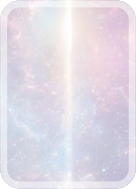
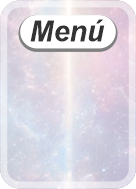
actualice apariencia del menú

Changed region(s): [[0.1176, 0.0794, 0.8824, 0.291]]

diff --git a/src/vista/Boton_Skim.java b/src/vista/Boton_Skim.java
@@ -1,7 +1,27 @@
 package vista;
 
 import javax.swing.*;
+import java.awt.*;
 
-public class Boton_Skim extends JButton {
+public class Boton_Skim extends JLabel {
+
+    public Boton_Skim( String titulo, String ruta_imagen) {
+        super(new ImageIcon(ruta_imagen));
+
+        // Establecemos algunos estilos adicionales para mejorar la apariencia
+        this.setBackground(new Color(51, 153, 255,0));
+        this.setForeground(Color.WHITE);
+        this.setFont(new Font("Arial", Font.BOLD, 14));
+        this.setText(titulo);
+        this.setPreferredSize(new Dimension(100,50));
+    }
+
+    public void set_Icon(String icon) {
+//        icon_direccion = icon;
+    }
+    public void  get_Icon(){
+//        return  icon_direccion;
+    }
 
 }
+

diff --git a/src/vista/GUI.java b/src/vista/GUI.java
@@ -27,6 +27,7 @@ public class GUI extends JFrame {
     private ImageIcon imagen_dado;
     private GridBagConstraints constraints; // Referencias del grid
     private JButton boton_lanzar, boton_menu = null, boton_atras, boton_salir, boton_entrar, boton_salir1; // Declaracion de los botones del juego
+    private Boton_Skim botonSkim_salir1;
     private Escucha escucha;
     private Menu menu;// Ventana que contiene el menu para salir del juego
     private Controlador control;
